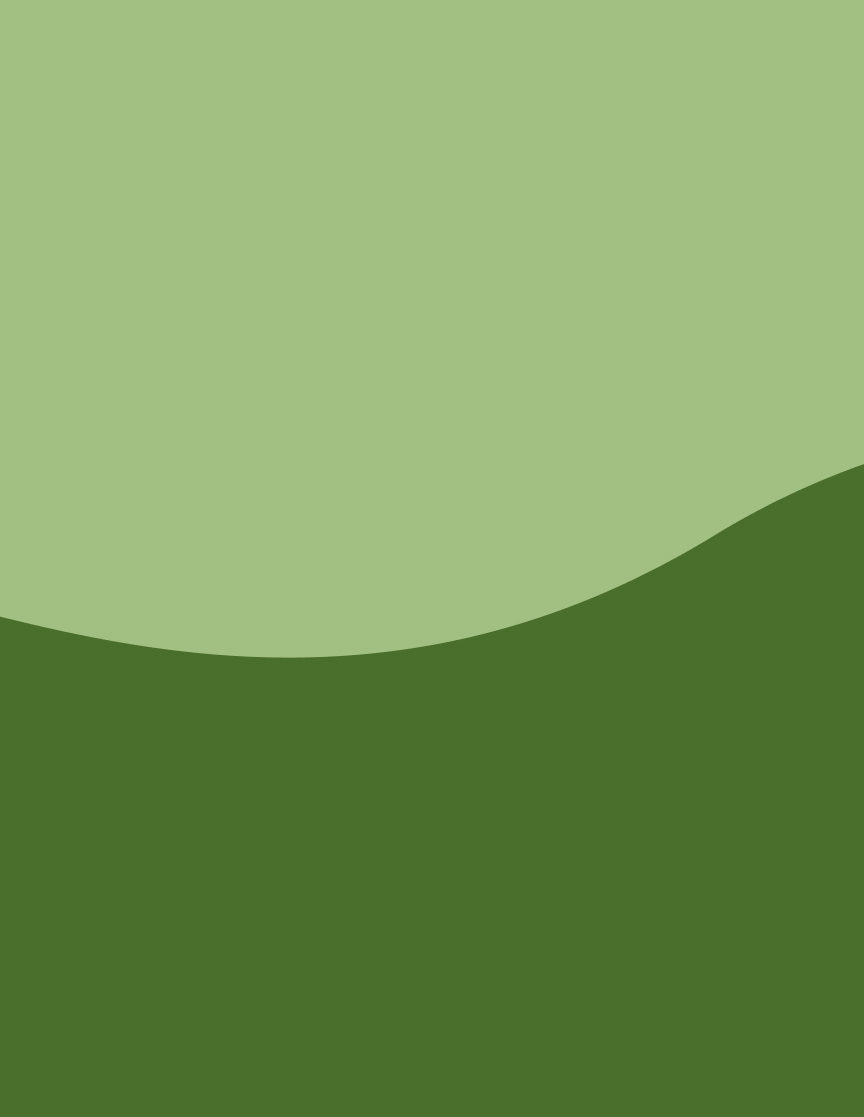
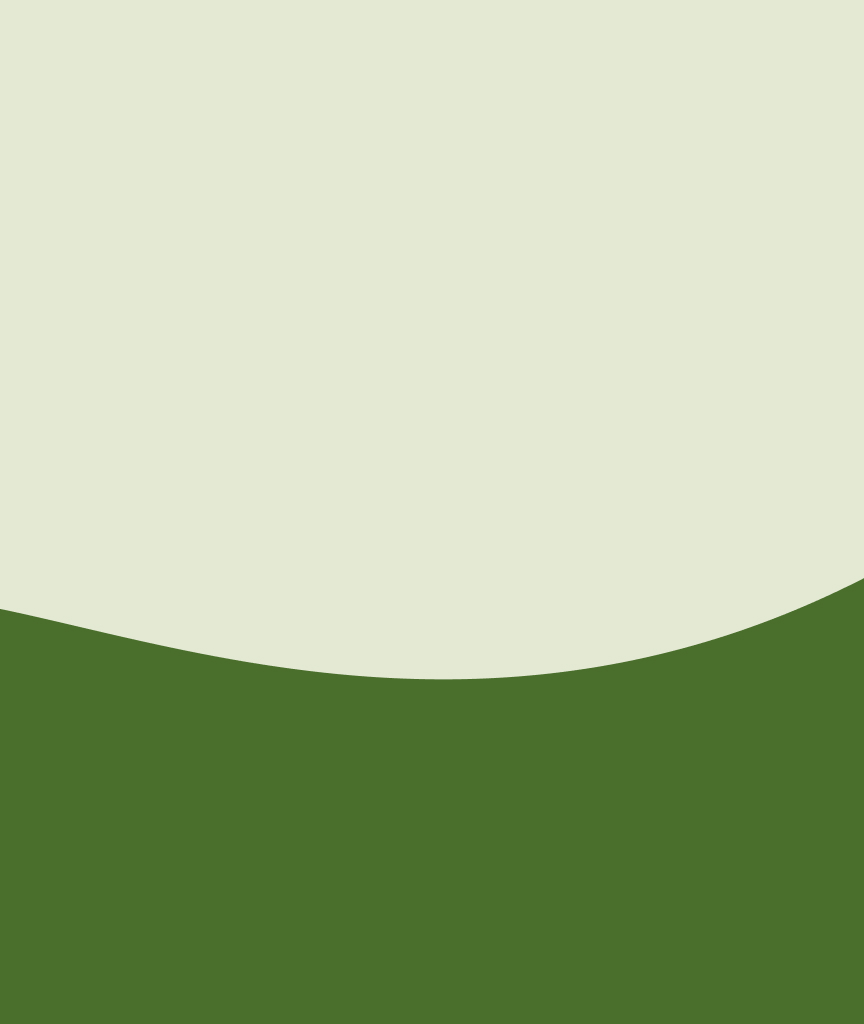
More Login styling

diff --git a/client/src/components/login/LoginUser.tsx b/client/src/components/login/LoginUser.tsx
@@ -11,6 +11,8 @@ import { useNavigate } from "react-router-dom";
 interface LoginProps {
   onLogin: Function;
   displayError: Function;
+  setLoginSlide: Function;
+  setLoginError: Function;
 }
 
 export default function LoginUser(props: LoginProps) {
@@ -27,7 +29,6 @@ export default function LoginUser(props: LoginProps) {
   const { register, handleSubmit, watch, formState } = useForm(validationOpt);
   const { errors } = formState;
   const navigate = useNavigate();
-
   const { authenticate } = useContext(AccountContext);
 
   const onSubmit = (data: any) => {
@@ -49,14 +50,17 @@ export default function LoginUser(props: LoginProps) {
       animate={{ x: 0, opacity: 1 }}
       exit={{ x: -30, opacity: 0 }}
     >
+      <h1 className="log-in-header">Log in</h1>
+      <h2 className="log-in-quip">Welcome back! Please enter your details.</h2>
       <form onSubmit={handleSubmit((data) => onSubmit(data))}>
+        <h3 className="form-labels">Email</h3>
         <div className="field">
           <input placeholder="Email" type="text" {...register("email")} />
           <p className="errors">
             {errors.email != undefined && "" + errors.email?.message}
           </p>
         </div>
-
+        <h3 className="form-labels">Password</h3>
         <div className="field">
           <input
             placeholder="Password"
@@ -67,8 +71,20 @@ export default function LoginUser(props: LoginProps) {
             {errors.password != undefined && "" + errors.password?.message}
           </p>
         </div>
-        <input type="submit" value="submit"></input>
+        <input type="submit" value="Log In"></input>
       </form>
+      <div className="sign-up-toggle-holder">
+        <h1 className="sign-up-text">Don't have an account?</h1>
+        <h1
+          className="sign-up-link"
+          onClick={() => {
+            props.setLoginSlide(false);
+            props.setLoginError(null);
+          }}
+        >
+          Sign up
+        </h1>
+      </div>
     </motion.div>
   );
 }

diff --git a/client/src/styles/components/Login.scss b/client/src/styles/components/Login.scss
@@ -1,7 +1,7 @@
 // @import '../themes/green-theme.scss';
-@import '../themes/green-theme.scss';
+@import "../themes/green-theme.scss";
 
-.login-page-container{
+.login-page-container {
   display: flex;
   flex-direction: row;
   position: absolute;
@@ -9,7 +9,7 @@
   top: 50%;
   transform: translate(-50%, -50%);
   width: 100vw;
-  height: 100vh
+  height: 100vh;
 }
 
 .login {
@@ -37,16 +37,29 @@
 
 .welcome-greeting {
   h1 {
-    font-size: 30px;
+    margin: 0;
+    font-family: $login-h1;
+    font-style: normal;
+    font-weight: 400;
+    font-size: 96px;
+    line-height: 173px;
+    color: #1c1f1f;
   }
 
   h2 {
-    font-size: 10px;
+    margin: 0;
+    font-family: $login-h2;
+    font-style: normal;
+    font-weight: 500;
+    font-size: 24px;
+    line-height: 29px;
+    color: #000000;
   }
 }
 
 .welcome-image {
   width: 80%;
+  border-radius: 10.9153px;
 }
 
 .slider-container {
@@ -96,6 +109,8 @@
   width: 100%;
   font-size: 15px;
   padding: 10px;
+  border: 3px solid $dark-color;
+  border-radius: 5px;
 }
 
 .login .errors {
@@ -120,7 +135,7 @@
   border-radius: 10px;
 }
 
-.login input[type=submit] {
+.login input[type="submit"] {
   font-size: inherit;
   width: 100%;
   cursor: pointer;
@@ -128,11 +143,11 @@
   height: 4em;
   border-radius: 10px;
   padding: 10px;
-  background-color: $accent-color;
+  background-color: $dark-color;
+  color: #fff;
 }
 
 @media only screen and (max-width: 600px) {
-
   .login {
     width: 80vw;
     padding: 30px;

diff --git a/client/src/components/login/Login.tsx b/client/src/components/login/Login.tsx
@@ -24,7 +24,7 @@ export default function Login(props: LoginProps) {
           animate={{ y: 0, opacity: 1 }}
           exit={{ y: -100, opacity: 0 }}
         >
-          <ol>
+          {/* <ol>
             <li>
               <h1
                 className={loginSlide ? "selected" : ""}
@@ -47,7 +47,7 @@ export default function Login(props: LoginProps) {
                 Create User
               </h1>
             </li>
-          </ol>
+          </ol> */}
 
           <div className="slider-container">
             <AnimatePresence>
@@ -55,6 +55,8 @@ export default function Login(props: LoginProps) {
                 <LoginUser
                   onLogin={props.onSubmission}
                   displayError={(error: Error) => setLoginError(error)}
+                  setLoginSlide={setLoginSlide}
+                  setLoginError={setLoginError}
                 />
               )}
               {!loginSlide && (

diff --git a/client/src/styles/themes/green-theme.scss b/client/src/styles/themes/green-theme.scss
@@ -1,3 +1,7 @@
-$dark-color: #42522E;
-$accent-color: #6E9532;
-$light-color: #E3E9D3;
+@import url("https://fonts.googleapis.com/css2?family=Inter&family=Koulen&display=swap");
+
+$dark-color: #42522e;
+$accent-color: #6e9532;
+$light-color: #e3e9d3;
+$login-h1: "Koulen", cursive;
+$login-h2: "Inter", normal;
